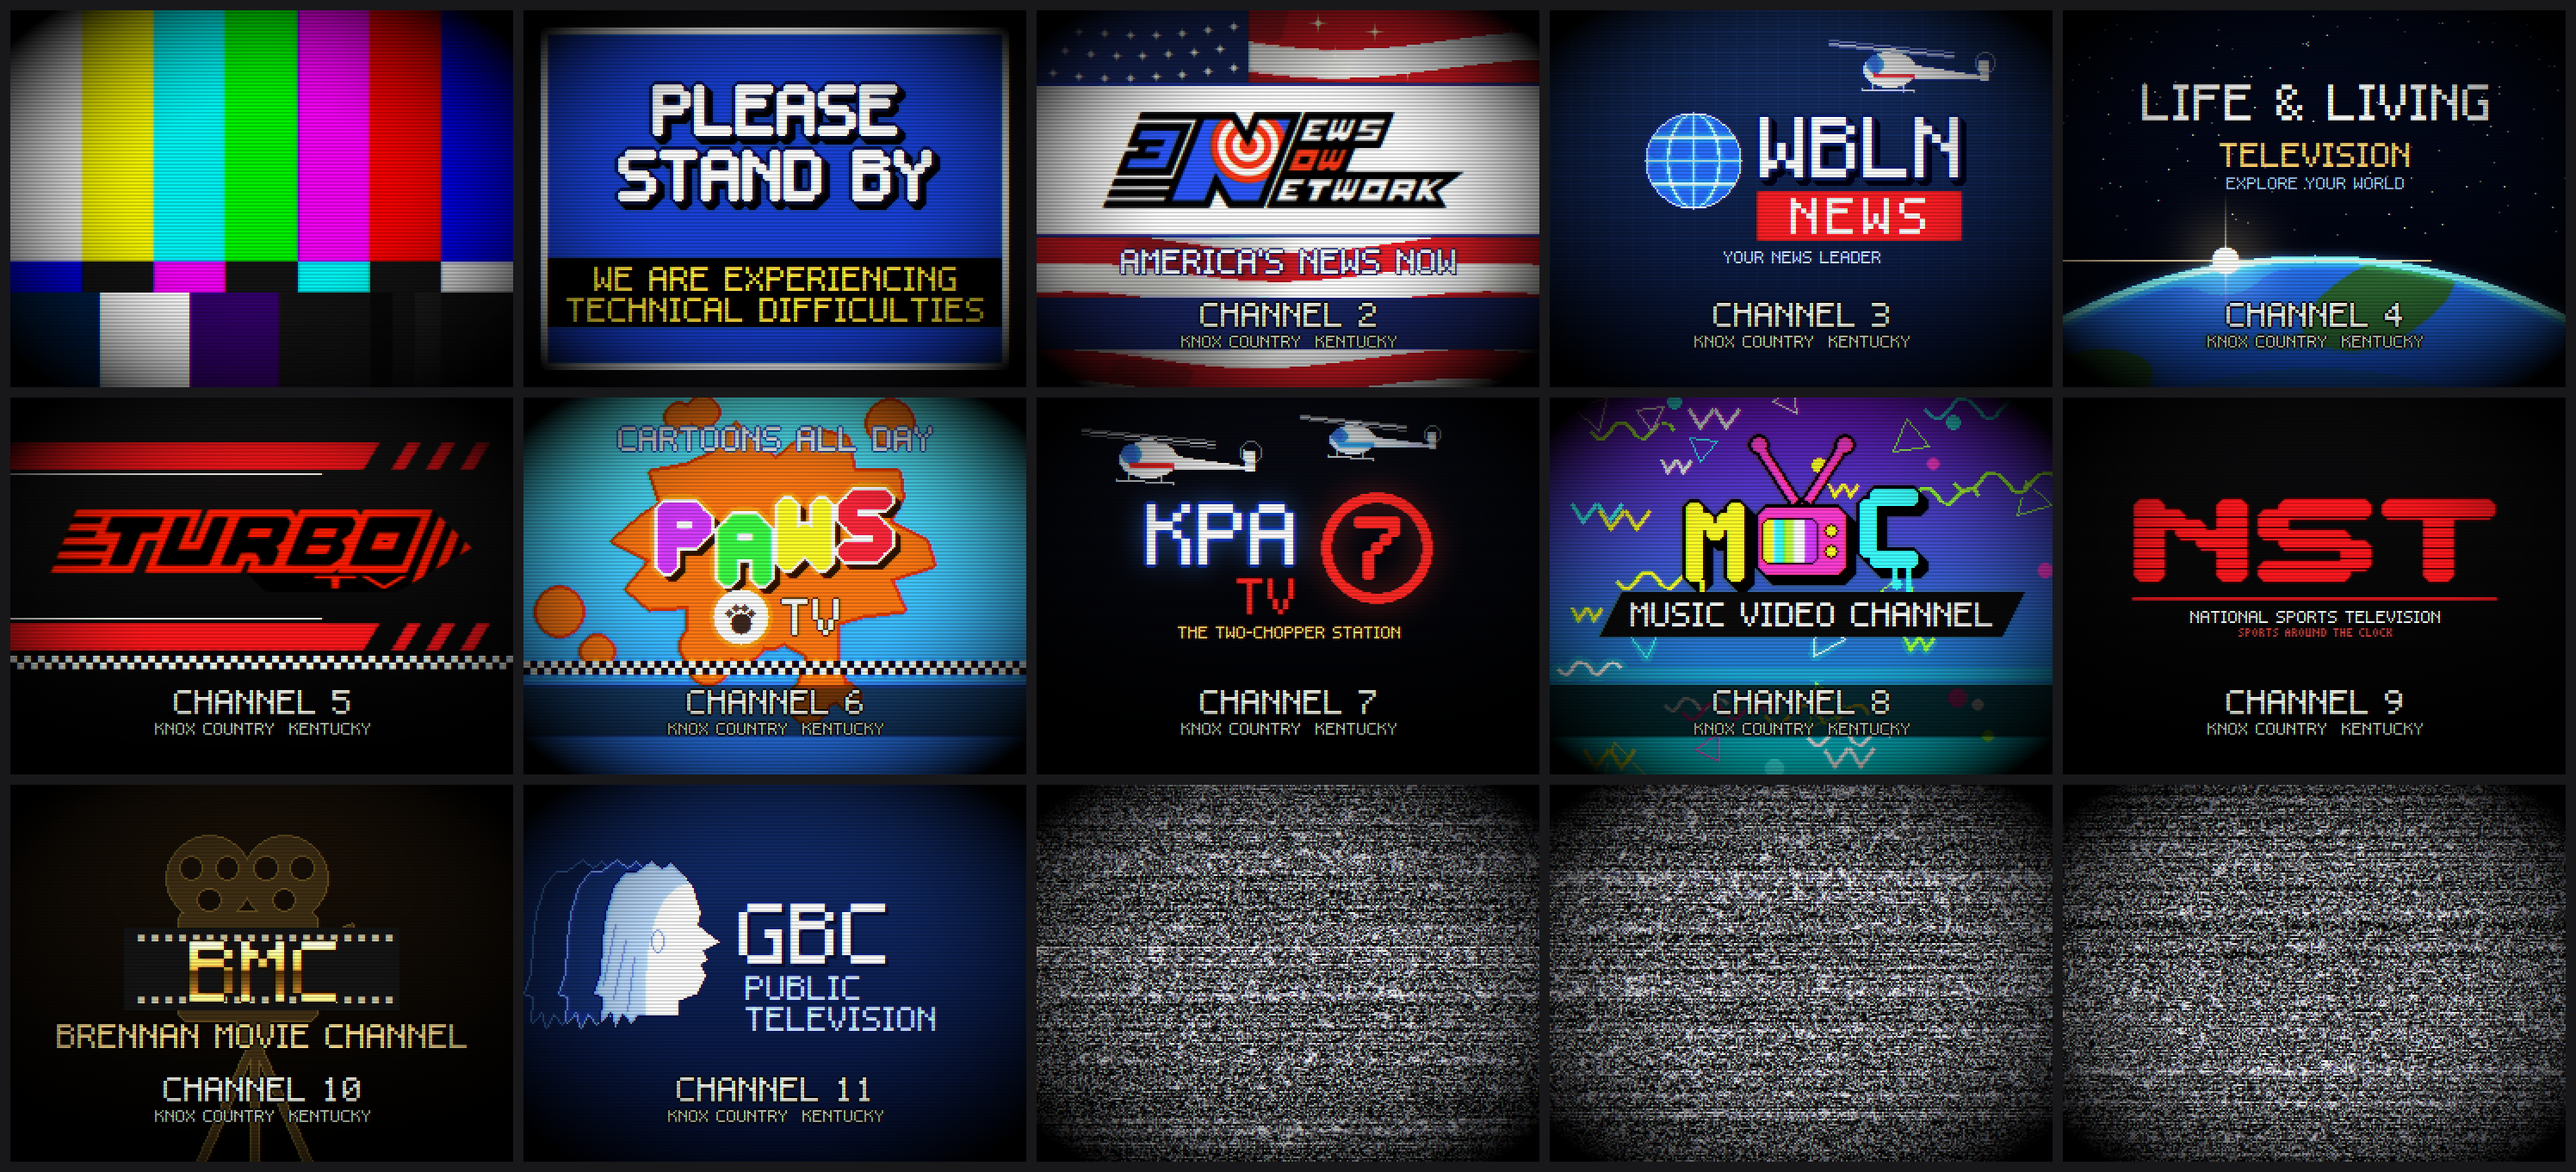
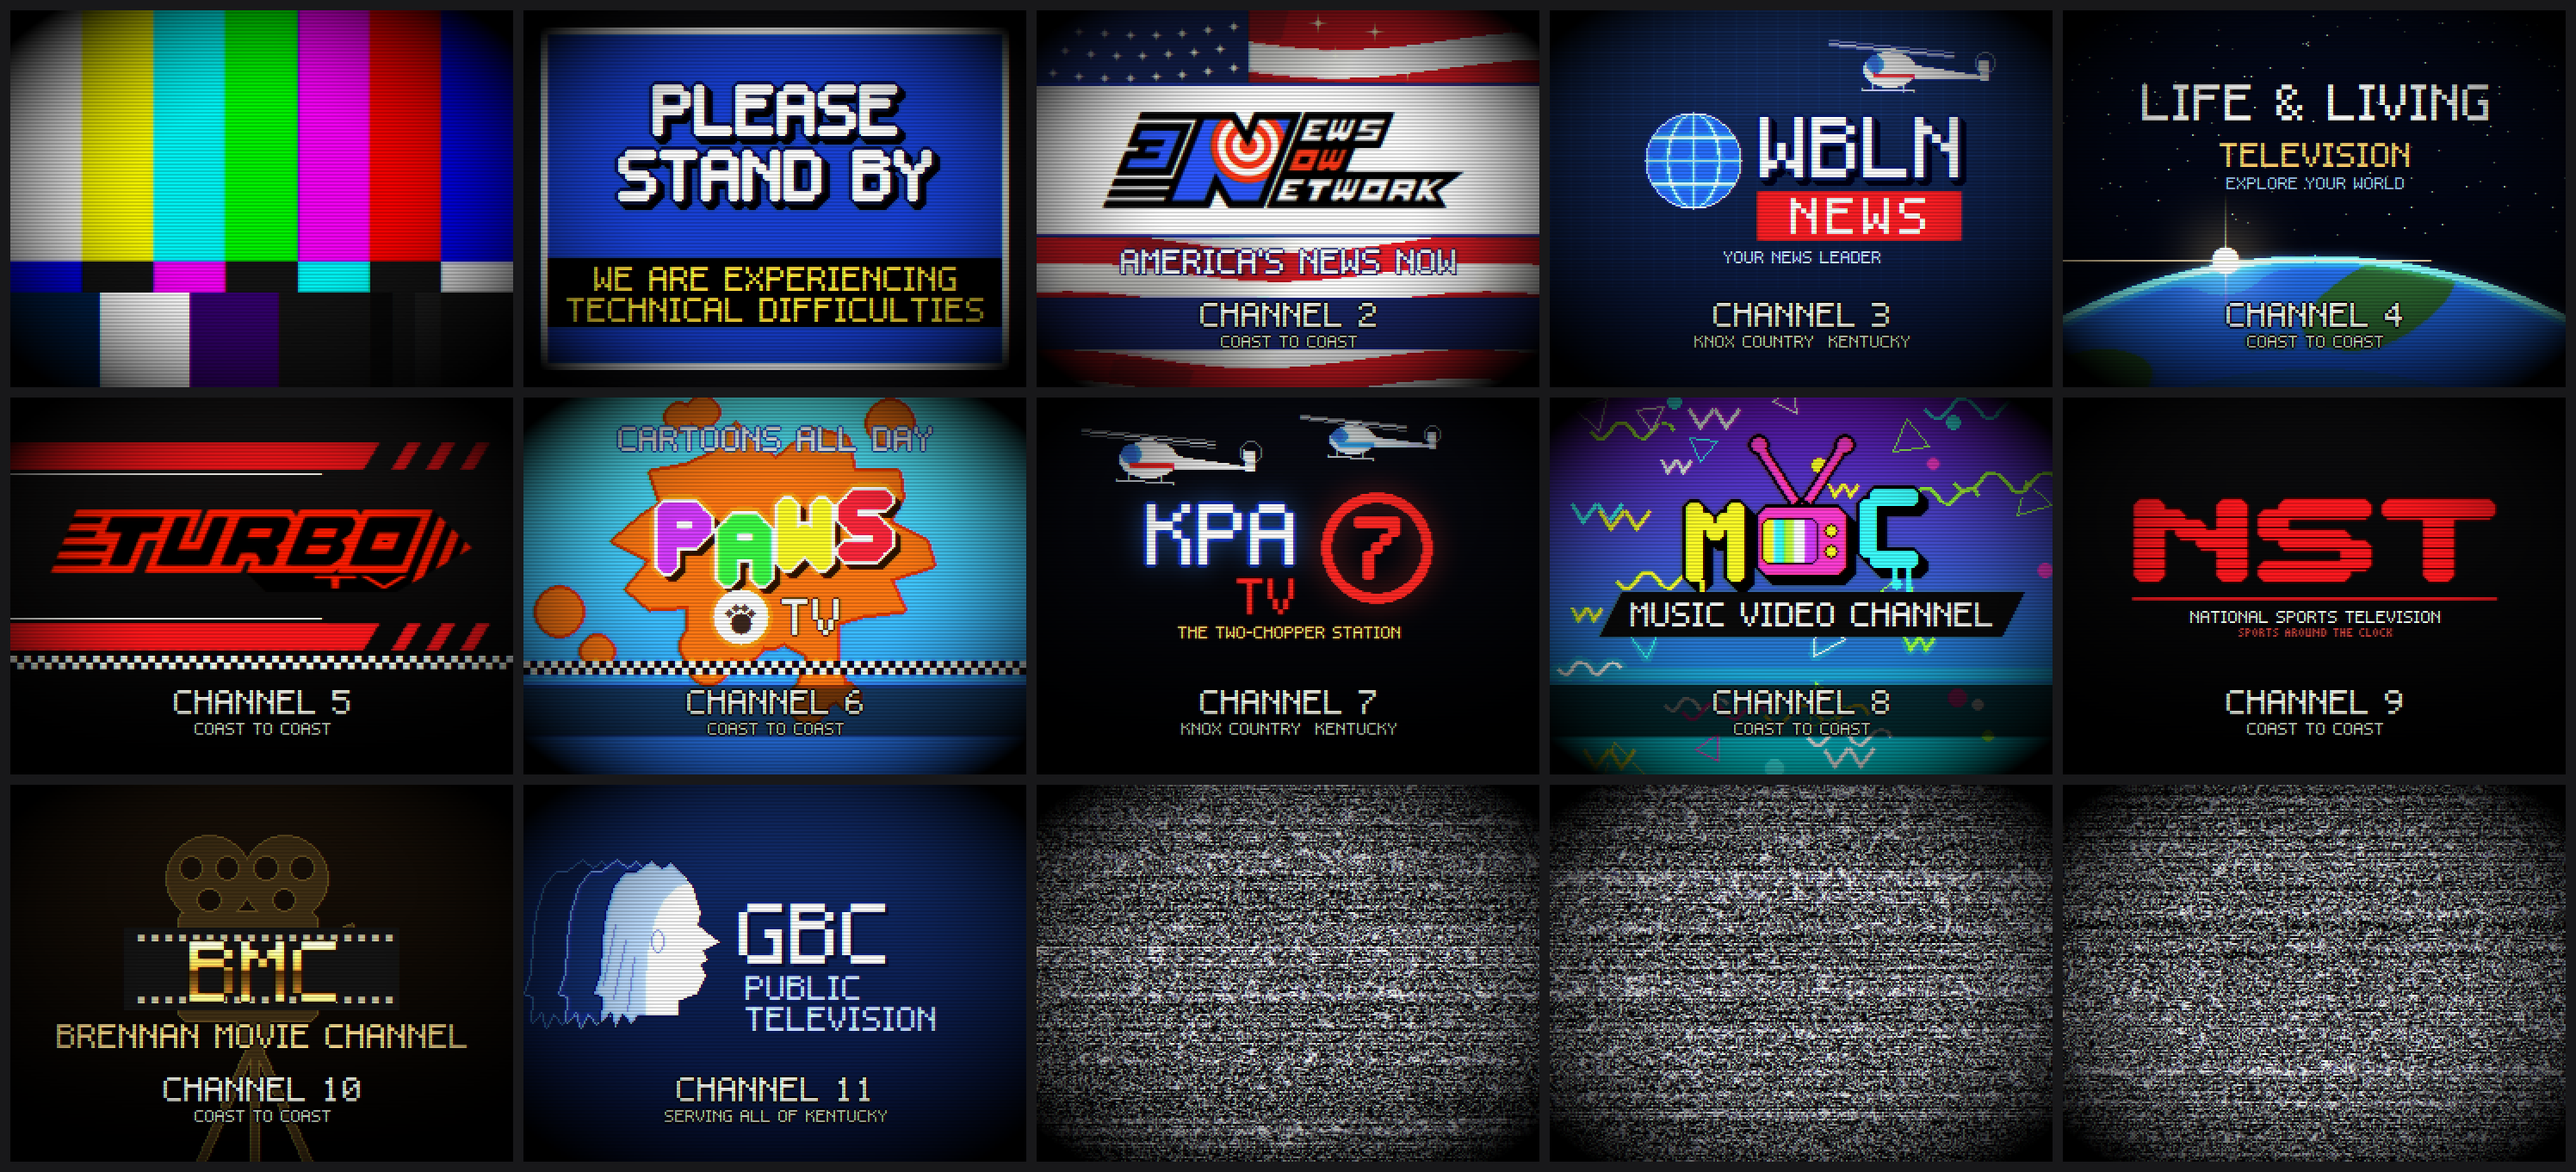
Design: off-air footer line by reach
The last line of each sign-off card now says who the channel reaches.
WBLN and KPATV are Knox Country stations; GBC serves all of Kentucky;
Triple-N, Life and Living, TURBO, PawsTV, MVC, NST and BMC say coast to coast.
One SCOPE table in offair.py to move a channel between groups.

Claude-Session: https://claude.ai/code/session_015Lv8fXDH1kuxg46sEw6iLh

diff --git a/ZeDUI/tools/physpx/offair.py b/ZeDUI/tools/physpx/offair.py
@@ -29,6 +29,11 @@ CHANNELS = [("triple_n", "Triple-N", 2), ("wbln", "WBLN News", 3), ("life", "Lif
             ("paws", "PawsTV", 6), ("kpa", "KPATV", 7), ("mvc", "Music Video Channel", 8), ("nst", "National Sports TV", 9),
             ("bmc", "Brennan Movie Channel", 10), ("gbc", "GBC", 11)]
 COUNTY = "KNOX COUNTRY, KENTUCKY"
+# who each channel reaches (director, Oct 30 2026: "not all are knox county. some would be kentucky wide"): the
+# county's own stations, the statewide public network, the national networks and cable channels. The card's last line.
+REACH = {"local": "KNOX COUNTRY  KENTUCKY", "state": "SERVING ALL OF KENTUCKY", "national": "COAST TO COAST"}
+SCOPE = {"wbln": "local", "kpa": "local", "gbc": "state", "triple_n": "national", "life": "national",
+         "turbo": "national", "paws": "national", "mvc": "national", "nst": "national", "bmc": "national"}
 
 # the channels the game already has a logo for (director, Oct 30 2026: "There should be real logos for some of tv and
 # radio in the game art"): the card draws the game's own picture, at runtime, from the game's files (nothing copied
@@ -232,10 +237,10 @@ def card_frame(w, h, top, bottom):
     return a
 
 
-def footer(a, w, h, ch, s, col=(240, 240, 230)):
+def footer(a, w, h, ch, s, col=(240, 240, 230), line=None):
     ss = max(1, s // 2)
     text(a, f"CHANNEL {ch}", w // 2, int(h * 0.78), ss, col, outline=(0, 0, 0))
-    text(a, COUNTY, w // 2, int(h * 0.78) + 8 * ss + 3, 1, col, font="57", outline=(0, 0, 0))
+    text(a, line or COUNTY, w // 2, int(h * 0.78) + 8 * ss + 3, 1, col, font="57", outline=(0, 0, 0))
 
 
 def chopper(a, hx0, hy0, L, s, stripe=(200, 30, 36), body=(225, 230, 240, 255)):
@@ -662,7 +667,7 @@ def signoff(cid, w, h):
         text(a, "GBC", gx, cy - 7 * s // 2 - 2 * s, s + 1, (255, 255, 255), align="l", shadow=(6, 16, 50))
         text(a, "PUBLIC", gx + s, cy + 5 * s, max(1, s // 2), (200, 220, 255), align="l")
         text(a, "TELEVISION", gx + s, cy + 5 * s + 9 * max(1, s // 2), max(1, s // 2), (200, 220, 255), align="l")
-    footer(a, w, h, ch, s)
+    footer(a, w, h, ch, s, line=REACH[SCOPE[cid]])
     return a
 
 
